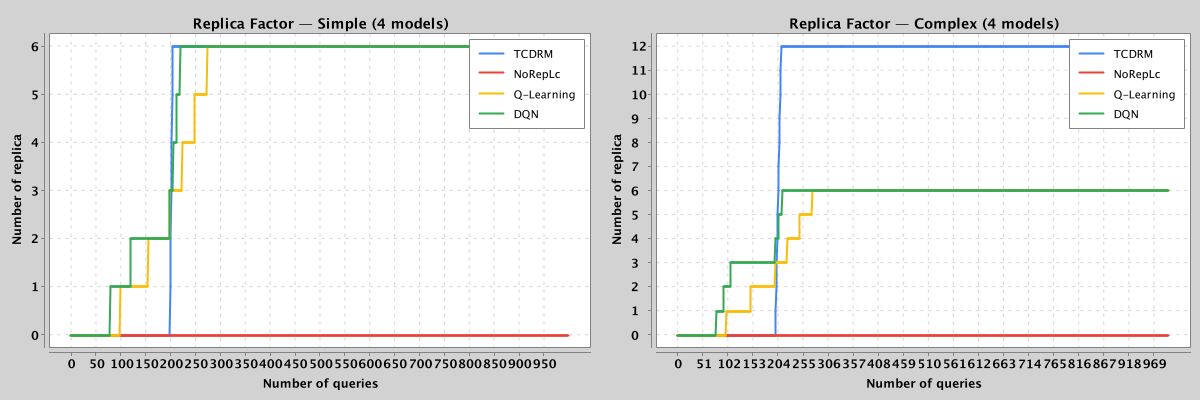
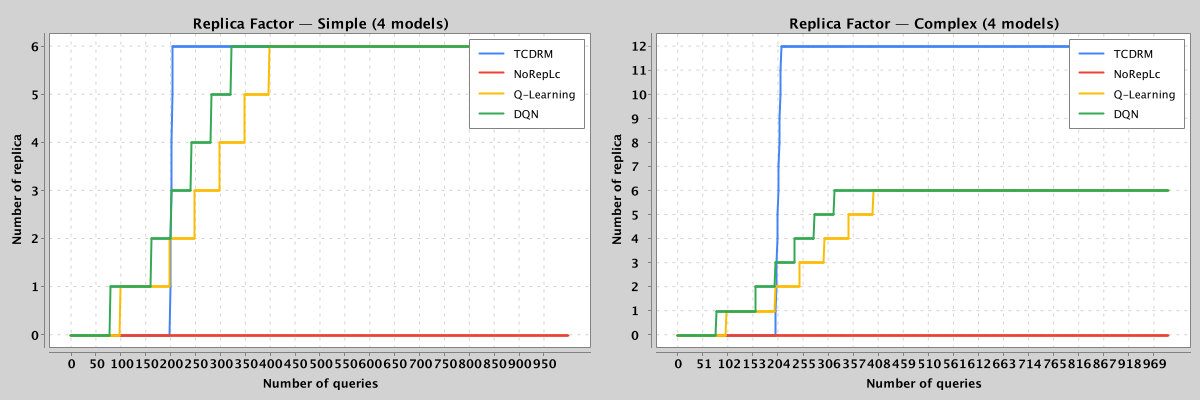
add new metrics

diff --git a/src/main/java/org/tcdrm/adaptive/benchmark/PopularityMetricsPlotter.java b/src/main/java/org/tcdrm/adaptive/benchmark/PopularityMetricsPlotter.java
@@ -1,0 +1,288 @@
+package org.tcdrm.adaptive.benchmark;
+
+import org.knowm.xchart.BitmapEncoder;
+import org.knowm.xchart.XYChart;
+import org.knowm.xchart.XYChartBuilder;
+import org.knowm.xchart.XYSeries;
+import org.knowm.xchart.style.Styler;
+import org.tcdrm.adaptive.core.TcdrmConstants;
+
+import java.awt.*;
+import java.awt.image.BufferedImage;
+import java.io.File;
+import java.io.IOException;
+import java.util.ArrayList;
+import java.util.List;
+import javax.imageio.ImageIO;
+
+/**
+ * Generates popularity and replication analysis charts.
+ * Shows the relationship between query popularity, SLA violations, and replica creation.
+ * 
+ * Charts generated:
+ * 1. Normalized Popularity over time (with P_SLA threshold)
+ * 2. Replica Count with replication trigger point
+ * 3. Response Time with SLA threshold and replica impact
+ * 4. Popularity vs Replicas correlation
+ */
+public class PopularityMetricsPlotter {
+    
+    private static final int CHART_WIDTH = 700;
+    private static final int CHART_HEIGHT = 450;
+    private static final double P_SLA = TcdrmConstants.POPULARITY_THRESHOLD;
+    private static final double T_SLA = TcdrmConstants.TSLA_SIMPLE_MS;
+    private static final Color THRESHOLD_COLOR = new Color(220, 50, 50, 180);
+    private static final Color REPLICA_ZONE_COLOR = new Color(50, 200, 50, 40);
+    
+    /**
+     * Generate popularity analysis charts for a single model.
+     */
+    public static void generatePopularityCharts(
+            BenchmarkDataPerQuery data,
+            String modelName,
+            Color modelColor,
+            String outputPath) throws IOException {
+        
+        // Create 2x2 grid of charts
+        BufferedImage combined = new BufferedImage(CHART_WIDTH * 2, CHART_HEIGHT * 2, BufferedImage.TYPE_INT_RGB);
+        Graphics2D g = combined.createGraphics();
+        g.setRenderingHint(RenderingHints.KEY_ANTIALIASING, RenderingHints.VALUE_ANTIALIAS_ON);
+        g.setColor(Color.WHITE);
+        g.fillRect(0, 0, combined.getWidth(), combined.getHeight());
+        
+        // Chart 1: Normalized Popularity
+        drawChart(g, createPopularityChart(data, modelName, modelColor), 0, 0);
+        
+        // Chart 2: Replica Count with trigger zone
+        drawChart(g, createReplicaWithTriggerChart(data, modelName, modelColor), CHART_WIDTH, 0);
+        
+        // Chart 3: Response Time with replica impact zones
+        drawChart(g, createResponseTimeZonesChart(data, modelName, modelColor), 0, CHART_HEIGHT);
+        
+        // Chart 4: Popularity vs Response Time correlation
+        drawChart(g, createPopularityVsResponseChart(data, modelName, modelColor), CHART_WIDTH, CHART_HEIGHT);
+        
+        g.dispose();
+        ImageIO.write(combined, "png", new File(outputPath));
+        System.out.println("  ✓ Popularity analysis " + modelName + ": " + outputPath);
+    }
+    
+    // === Chart 1: Normalized Popularity ===
+    private static XYChart createPopularityChart(BenchmarkDataPerQuery data, String modelName, Color color) {
+        XYChart chart = createBaseChart("Normalized Popularity", "Query", "Popularity (P / P_SLA)");
+        
+        // Calculate normalized popularity: query_number / P_SLA
+        List<Double> popularity = new ArrayList<>();
+        for (int q : data.queryNumbers()) {
+            popularity.add((double)(q + 1) / P_SLA);
+        }
+        addSeries(chart, modelName, data.queryNumbers(), popularity, color, 2.0f);
+        
+        // P_SLA threshold line at 1.0
+        List<Double> threshold = new ArrayList<>();
+        for (int i = 0; i < data.queryNumbers().size(); i++) threshold.add(1.0);
+        XYSeries thresholdSeries = chart.addSeries("P_SLA Threshold", data.queryNumbers(), threshold);
+        thresholdSeries.setLineColor(THRESHOLD_COLOR);
+        thresholdSeries.setLineStyle(new BasicStroke(2.0f, BasicStroke.CAP_BUTT, BasicStroke.JOIN_MITER, 
+            10.0f, new float[]{10.0f, 5.0f}, 0.0f));
+        thresholdSeries.setMarker(org.knowm.xchart.style.markers.SeriesMarkers.NONE);
+        
+        // DQN adaptive threshold (0.4)
+        List<Double> dqnThreshold = new ArrayList<>();
+        for (int i = 0; i < data.queryNumbers().size(); i++) dqnThreshold.add(0.4);
+        XYSeries dqnSeries = chart.addSeries("DQN Threshold (40%)", data.queryNumbers(), dqnThreshold);
+        dqnSeries.setLineColor(new Color(52, 168, 83, 150));
+        dqnSeries.setLineStyle(new BasicStroke(1.5f, BasicStroke.CAP_BUTT, BasicStroke.JOIN_MITER, 
+            10.0f, new float[]{5.0f, 3.0f}, 0.0f));
+        dqnSeries.setMarker(org.knowm.xchart.style.markers.SeriesMarkers.NONE);
+        
+        // Q-Learning adaptive threshold (0.5)
+        List<Double> qlThreshold = new ArrayList<>();
+        for (int i = 0; i < data.queryNumbers().size(); i++) qlThreshold.add(0.5);
+        XYSeries qlSeries = chart.addSeries("Q-Learn Threshold (50%)", data.queryNumbers(), qlThreshold);
+        qlSeries.setLineColor(new Color(251, 188, 4, 150));
+        qlSeries.setLineStyle(new BasicStroke(1.5f, BasicStroke.CAP_BUTT, BasicStroke.JOIN_MITER, 
+            10.0f, new float[]{5.0f, 3.0f}, 0.0f));
+        qlSeries.setMarker(org.knowm.xchart.style.markers.SeriesMarkers.NONE);
+        
+        chart.getStyler().setYAxisMin(0.0);
+        chart.getStyler().setYAxisMax(5.5);
+        
+        return chart;
+    }
+    
+    // === Chart 2: Replica Count with Trigger Point ===
+    private static XYChart createReplicaWithTriggerChart(BenchmarkDataPerQuery data, String modelName, Color color) {
+        XYChart chart = createBaseChart("Replica Creation Timeline", "Query", "Replicas");
+        
+        // Find first replication query
+        int triggerQuery = -1;
+        for (int i = 0; i < data.replicaCounts().size(); i++) {
+            if (data.replicaCounts().get(i) > 0) {
+                triggerQuery = data.queryNumbers().get(i);
+                break;
+            }
+        }
+        
+        // Replica count
+        List<Double> replicas = new ArrayList<>();
+        for (int r : data.replicaCounts()) replicas.add((double) r);
+        addSeries(chart, modelName + " Replicas", data.queryNumbers(), replicas, color, 2.5f);
+        
+        // Add trigger point annotation
+        if (triggerQuery >= 0) {
+            List<Integer> triggerX = List.of(triggerQuery, triggerQuery);
+            List<Double> triggerY = List.of(0.0, (double) TcdrmConstants.MAX_REPLICAS_SIMPLE);
+            XYSeries trigger = chart.addSeries("Trigger @ q" + triggerQuery, triggerX, triggerY);
+            trigger.setLineColor(THRESHOLD_COLOR);
+            trigger.setLineStyle(new BasicStroke(2.0f, BasicStroke.CAP_BUTT, BasicStroke.JOIN_MITER, 
+                10.0f, new float[]{8.0f, 4.0f}, 0.0f));
+            trigger.setMarker(org.knowm.xchart.style.markers.SeriesMarkers.NONE);
+        }
+        
+        chart.getStyler().setYAxisMin(0.0);
+        chart.getStyler().setYAxisMax((double) TcdrmConstants.MAX_REPLICAS_SIMPLE + 1);
+        
+        return chart;
+    }
+    
+    // === Chart 3: Response Time with Replica Impact Zones ===
+    private static XYChart createResponseTimeZonesChart(BenchmarkDataPerQuery data, String modelName, Color color) {
+        XYChart chart = createBaseChart("Response Time & Replica Impact", "Query", "Time (ms)");
+        
+        // Response time
+        addSeries(chart, modelName, data.queryNumbers(), data.timePerQueryMs(), color, 1.5f);
+        
+        // T_SLA threshold
+        List<Double> slaLine = new ArrayList<>();
+        for (int i = 0; i < data.queryNumbers().size(); i++) slaLine.add(T_SLA);
+        XYSeries slaSeries = chart.addSeries("T_SLA = " + (int) T_SLA + "ms", data.queryNumbers(), slaLine);
+        slaSeries.setLineColor(THRESHOLD_COLOR);
+        slaSeries.setLineStyle(new BasicStroke(2.0f, BasicStroke.CAP_BUTT, BasicStroke.JOIN_MITER, 
+            10.0f, new float[]{10.0f, 5.0f}, 0.0f));
+        slaSeries.setMarker(org.knowm.xchart.style.markers.SeriesMarkers.NONE);
+        
+        // Smoothed response time to show trend
+        List<Double> smoothed = smoothData(data.timePerQueryMs(), 30);
+        XYSeries smoothSeries = chart.addSeries(modelName + " (trend)", data.queryNumbers(), smoothed);
+        smoothSeries.setLineColor(color.darker());
+        smoothSeries.setLineStyle(new BasicStroke(3.0f));
+        smoothSeries.setMarker(org.knowm.xchart.style.markers.SeriesMarkers.NONE);
+        
+        return chart;
+    }
+    
+    // === Chart 4: Popularity vs Response Time ===
+    private static XYChart createPopularityVsResponseChart(BenchmarkDataPerQuery data, String modelName, Color color) {
+        XYChart chart = createBaseChart("Popularity Impact on Response Time", "Normalized Popularity (P/P_SLA)", "Avg Response Time (ms)");
+        
+        // Group queries by popularity buckets and calculate average response time
+        int numBuckets = 20;
+        double maxPopularity = 5.0; // 1000 queries / 200 P_SLA = 5
+        List<Double> bucketPopularity = new ArrayList<>();
+        List<Double> bucketAvgTime = new ArrayList<>();
+        
+        for (int b = 0; b < numBuckets; b++) {
+            double popStart = b * maxPopularity / numBuckets;
+            double popEnd = (b + 1) * maxPopularity / numBuckets;
+            double popMid = (popStart + popEnd) / 2;
+            
+            double sumTime = 0;
+            int count = 0;
+            for (int i = 0; i < data.queryNumbers().size(); i++) {
+                double pop = (double)(data.queryNumbers().get(i) + 1) / P_SLA;
+                if (pop >= popStart && pop < popEnd) {
+                    sumTime += data.timePerQueryMs().get(i);
+                    count++;
+                }
+            }
+            
+            if (count > 0) {
+                bucketPopularity.add(popMid);
+                bucketAvgTime.add(sumTime / count);
+            }
+        }
+        
+        if (!bucketPopularity.isEmpty()) {
+            XYSeries series = chart.addSeries(modelName, bucketPopularity, bucketAvgTime);
+            series.setLineColor(color);
+            series.setLineStyle(new BasicStroke(2.5f));
+            series.setMarker(org.knowm.xchart.style.markers.SeriesMarkers.CIRCLE);
+            series.setMarkerColor(color);
+        }
+        
+        // P_SLA = 1.0 vertical line
+        List<Double> pSlaX = List.of(1.0, 1.0);
+        List<Double> pSlaY = List.of(0.0, 250.0);
+        XYSeries pSlaSeries = chart.addSeries("P_SLA = 1.0", pSlaX, pSlaY);
+        pSlaSeries.setLineColor(THRESHOLD_COLOR);
+        pSlaSeries.setLineStyle(new BasicStroke(2.0f, BasicStroke.CAP_BUTT, BasicStroke.JOIN_MITER, 
+            10.0f, new float[]{8.0f, 4.0f}, 0.0f));
+        pSlaSeries.setMarker(org.knowm.xchart.style.markers.SeriesMarkers.NONE);
+        
+        // T_SLA horizontal line
+        List<Double> tSlaX = List.of(0.0, maxPopularity);
+        List<Double> tSlaY = List.of(T_SLA, T_SLA);
+        XYSeries tSlaSeries = chart.addSeries("T_SLA = " + (int) T_SLA + "ms", tSlaX, tSlaY);
+        tSlaSeries.setLineColor(new Color(100, 100, 100, 150));
+        tSlaSeries.setLineStyle(new BasicStroke(1.5f, BasicStroke.CAP_BUTT, BasicStroke.JOIN_MITER, 
+            10.0f, new float[]{5.0f, 3.0f}, 0.0f));
+        tSlaSeries.setMarker(org.knowm.xchart.style.markers.SeriesMarkers.NONE);
+        
+        chart.getStyler().setXAxisMin(0.0);
+        chart.getStyler().setXAxisMax(maxPopularity);
+        chart.getStyler().setYAxisMin(0.0);
+        
+        return chart;
+    }
+    
+    // === Utility Methods ===
+    
+    private static List<Double> smoothData(List<Double> data, int windowSize) {
+        List<Double> smoothed = new ArrayList<>();
+        for (int i = 0; i < data.size(); i++) {
+            int start = Math.max(0, i - windowSize / 2);
+            int end = Math.min(data.size(), i + windowSize / 2 + 1);
+            double sum = 0.0;
+            for (int j = start; j < end; j++) sum += data.get(j);
+            smoothed.add(sum / (end - start));
+        }
+        return smoothed;
+    }
+    
+    private static XYChart createBaseChart(String title, String xLabel, String yLabel) {
+        XYChart chart = new XYChartBuilder()
+            .width(CHART_WIDTH)
+            .height(CHART_HEIGHT)
+            .title(title)
+            .xAxisTitle(xLabel)
+            .yAxisTitle(yLabel)
+            .build();
+        
+        chart.getStyler().setLegendPosition(Styler.LegendPosition.OutsideE);
+        chart.getStyler().setDefaultSeriesRenderStyle(XYSeries.XYSeriesRenderStyle.Line);
+        chart.getStyler().setMarkerSize(0);
+        chart.getStyler().setXAxisMin(0.0);
+        chart.getStyler().setXAxisMax((double) TcdrmConstants.MAX_QUERIES);
+        chart.getStyler().setXAxisDecimalPattern("#");
+        chart.getStyler().setYAxisDecimalPattern("#.##");
+        chart.getStyler().setPlotContentSize(0.92);
+        chart.getStyler().setChartPadding(10);
+        chart.getStyler().setXAxisTickMarkSpacingHint(150);
+        
+        return chart;
+    }
+    
+    private static void drawChart(Graphics2D g, XYChart chart, int x, int y) {
+        g.drawImage(BitmapEncoder.getBufferedImage(chart), x, y, null);
+    }
+    
+    private static void addSeries(XYChart chart, String name, List<Integer> x, List<Double> y, Color color, float strokeWidth) {
+        List<Double> xd = new ArrayList<>();
+        for (int v : x) xd.add((double) v);
+        XYSeries series = chart.addSeries(name, xd, y);
+        series.setLineColor(color);
+        series.setLineStyle(new BasicStroke(strokeWidth));
+        series.setMarker(org.knowm.xchart.style.markers.SeriesMarkers.NONE);
+    }
+}

diff --git a/python_rl/bridge/rl_bridge.py b/python_rl/bridge/rl_bridge.py
@@ -48,14 +48,15 @@ class PythonRLBridge:
             self.dqn_agent.policy_net.eval()
             print("✅ DQN loaded")
         
-        # TCDRM-ADAPTIVE strategies
+        # TCDRM-ADAPTIVE strategies with progressive replication
+        # replicate_interval controls how many queries between each replica creation
         self._ql_strategy = AdaptiveStrategy(
             initial_threshold=0.8, min_threshold=0.5,
-            sla_violation_trigger=10, replicate_interval=50
+            sla_violation_trigger=10, replicate_interval=100  # 1 replica every 100 queries
         )
         self._dqn_strategy = AdaptiveStrategy(
             initial_threshold=0.6, min_threshold=0.4,
-            sla_violation_trigger=5, replicate_interval=15
+            sla_violation_trigger=5, replicate_interval=80  # 1 replica every 80 queries
         )
         
         print("✅ Python bridge initialized (TCDRM-ADAPTIVE)")

diff --git a/python_rl/bridge/adaptive_strategy.py b/python_rl/bridge/adaptive_strategy.py
@@ -113,8 +113,15 @@ class AdaptiveStrategy:
                     self.state.adaptive_threshold - self.threshold_decay
                 )
         
-        popularity_ready = (normalized_popularity >= self.state.adaptive_threshold)
-        budget_ratio = budget / 1000.0
+        budget_ratio = budget / 1000.0  # Assuming initial budget = 1000
+        
+        # P_SLA DYNAMIQUE basé sur le budget (Option 2 du papier)
+        # P_SLA(t) = P_base × (budget_restant / budget_initial)
+        # Plus de budget → seuil plus bas → réplication plus facile
+        # Moins de budget → seuil plus haut → économie
+        dynamic_threshold = self.state.adaptive_threshold * max(0.3, min(1.0, budget_ratio))
+        
+        popularity_ready = (normalized_popularity >= dynamic_threshold)
         
         # Anti-thrashing check
         self.state.action_history.append(0)

diff --git a/src/main/java/org/tcdrm/adaptive/TcdrmMain.java b/src/main/java/org/tcdrm/adaptive/TcdrmMain.java
@@ -157,6 +157,9 @@ public class TcdrmMain {
             SingleModelMetricsPlotter.generateMetricsPlot(
                 (BenchmarkDataPerQuery) entry[0], (String) entry[1], (Color) entry[2],
                 "images/tcdrm_metrics_" + entry[3] + ".png");
+            PopularityMetricsPlotter.generatePopularityCharts(
+                (BenchmarkDataPerQuery) entry[0], (String) entry[1], (Color) entry[2],
+                "images/tcdrm_popularity_" + entry[3] + ".png");
         }
     }
     
